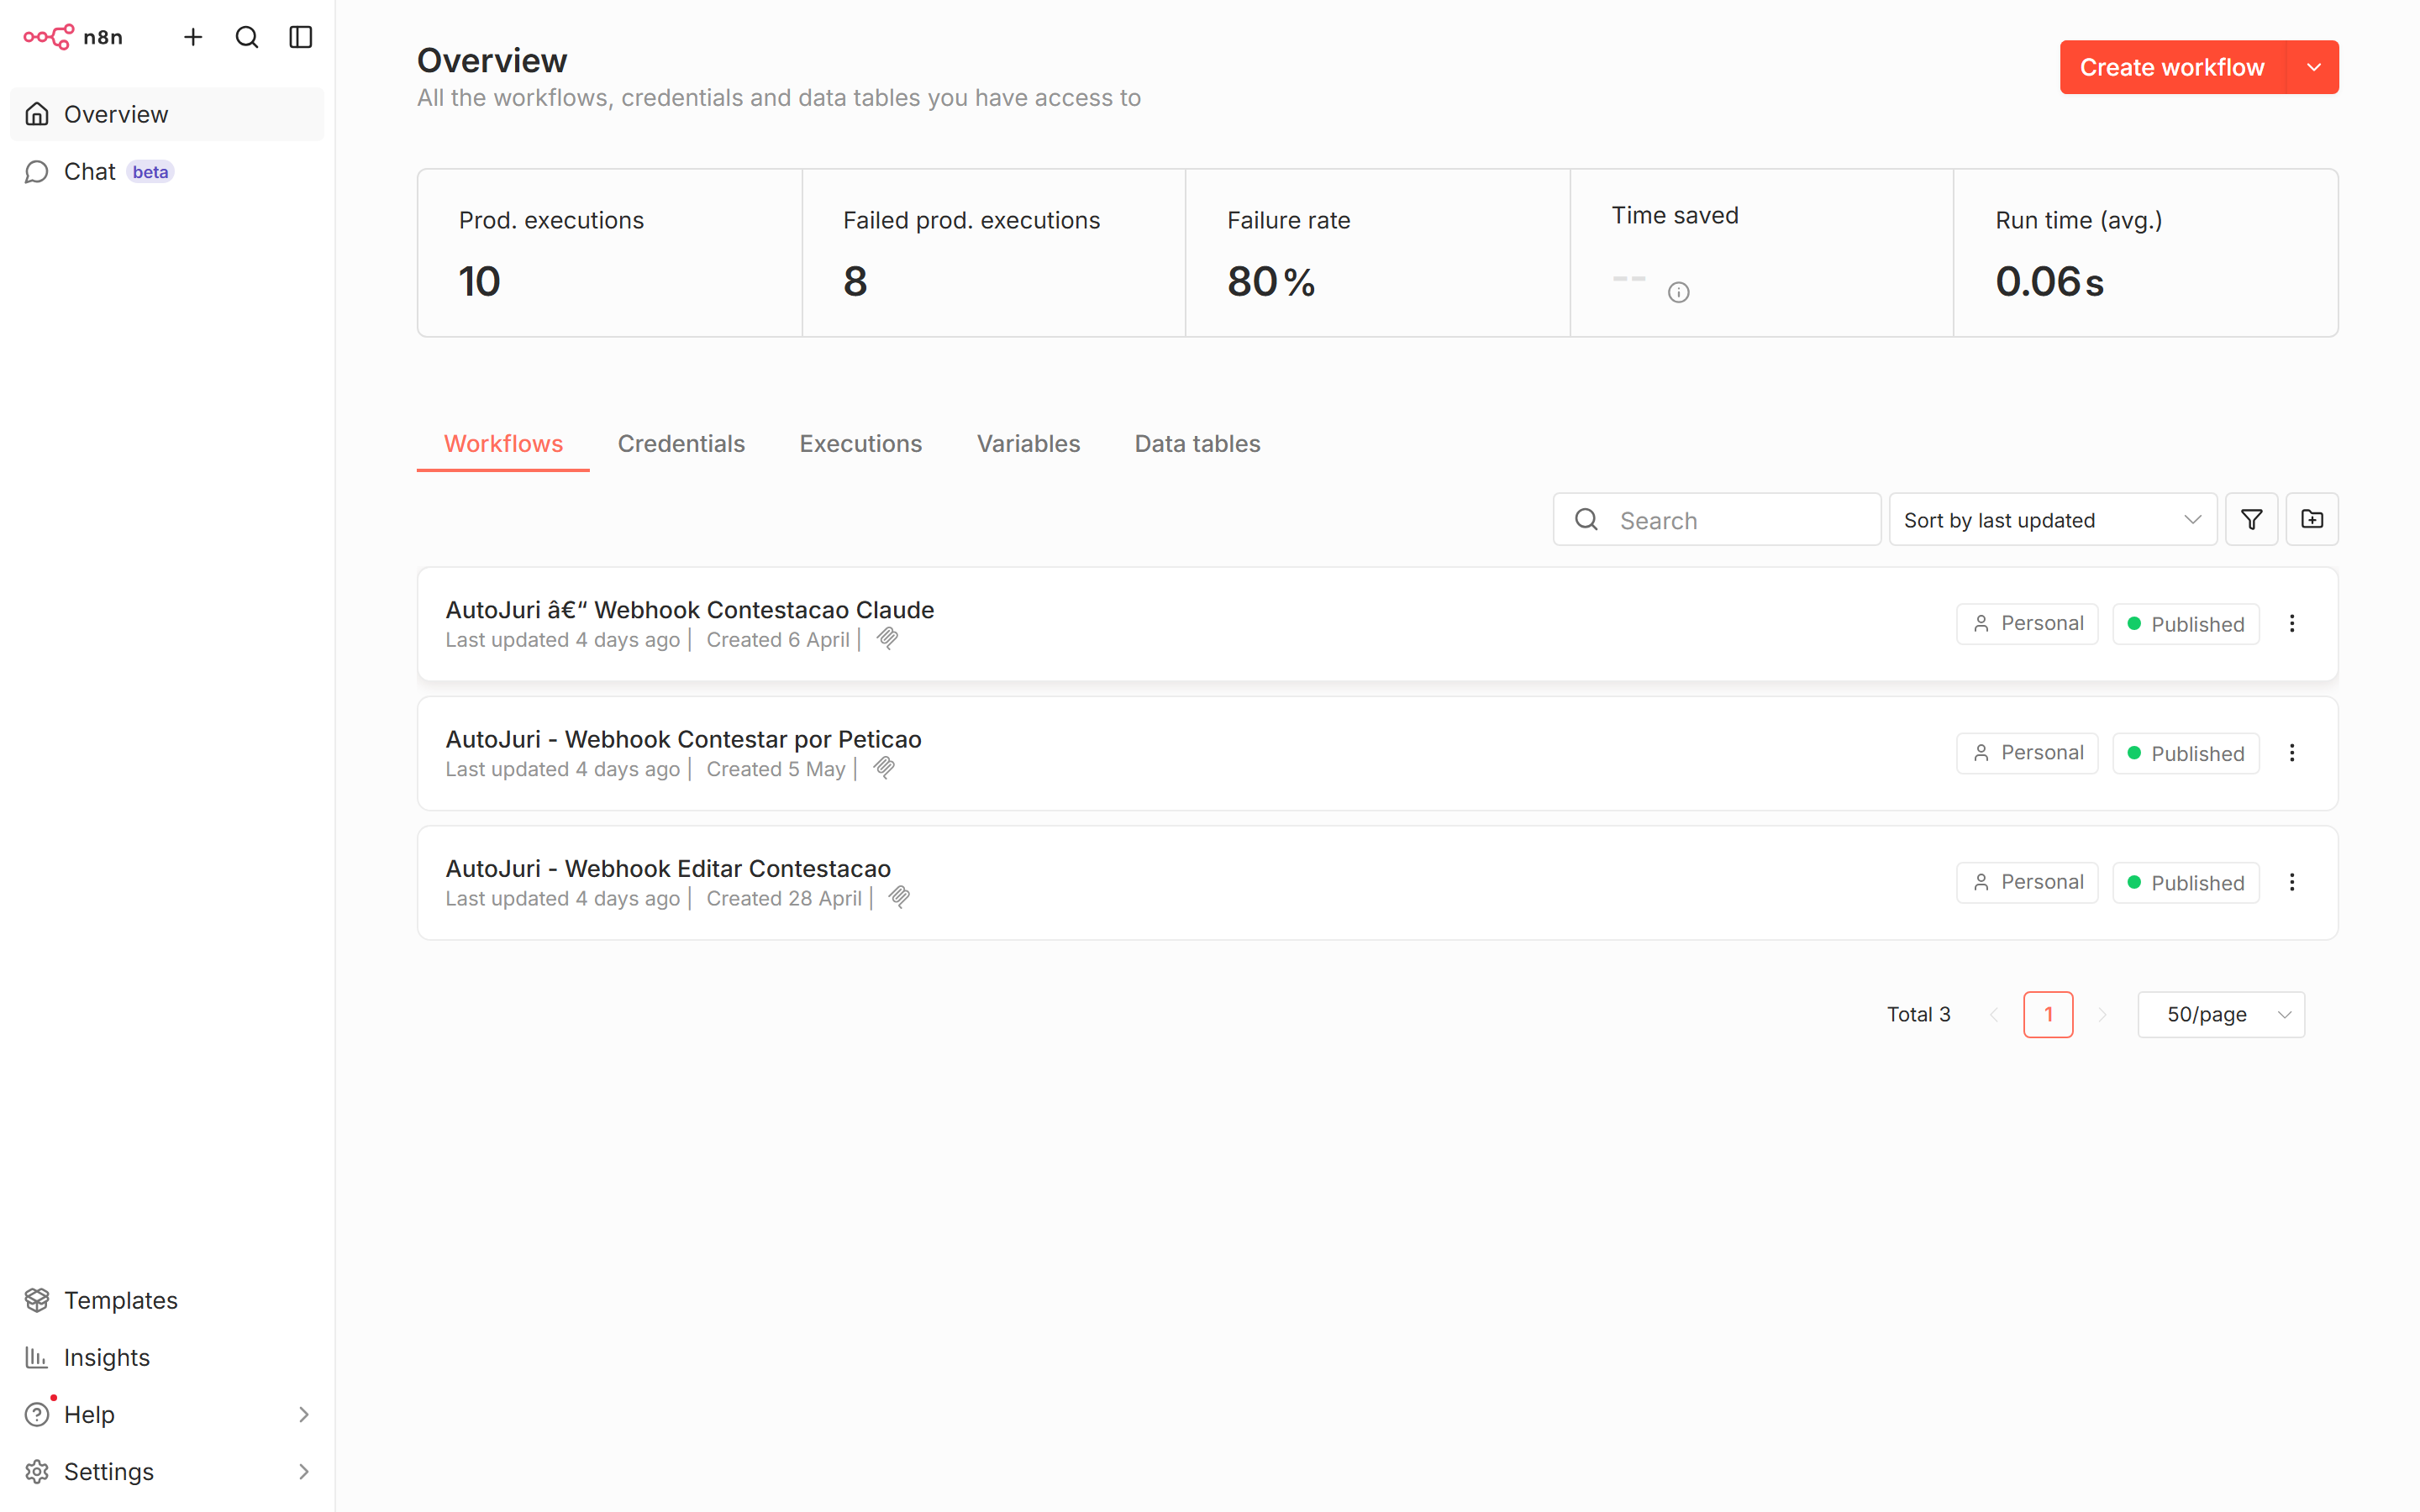
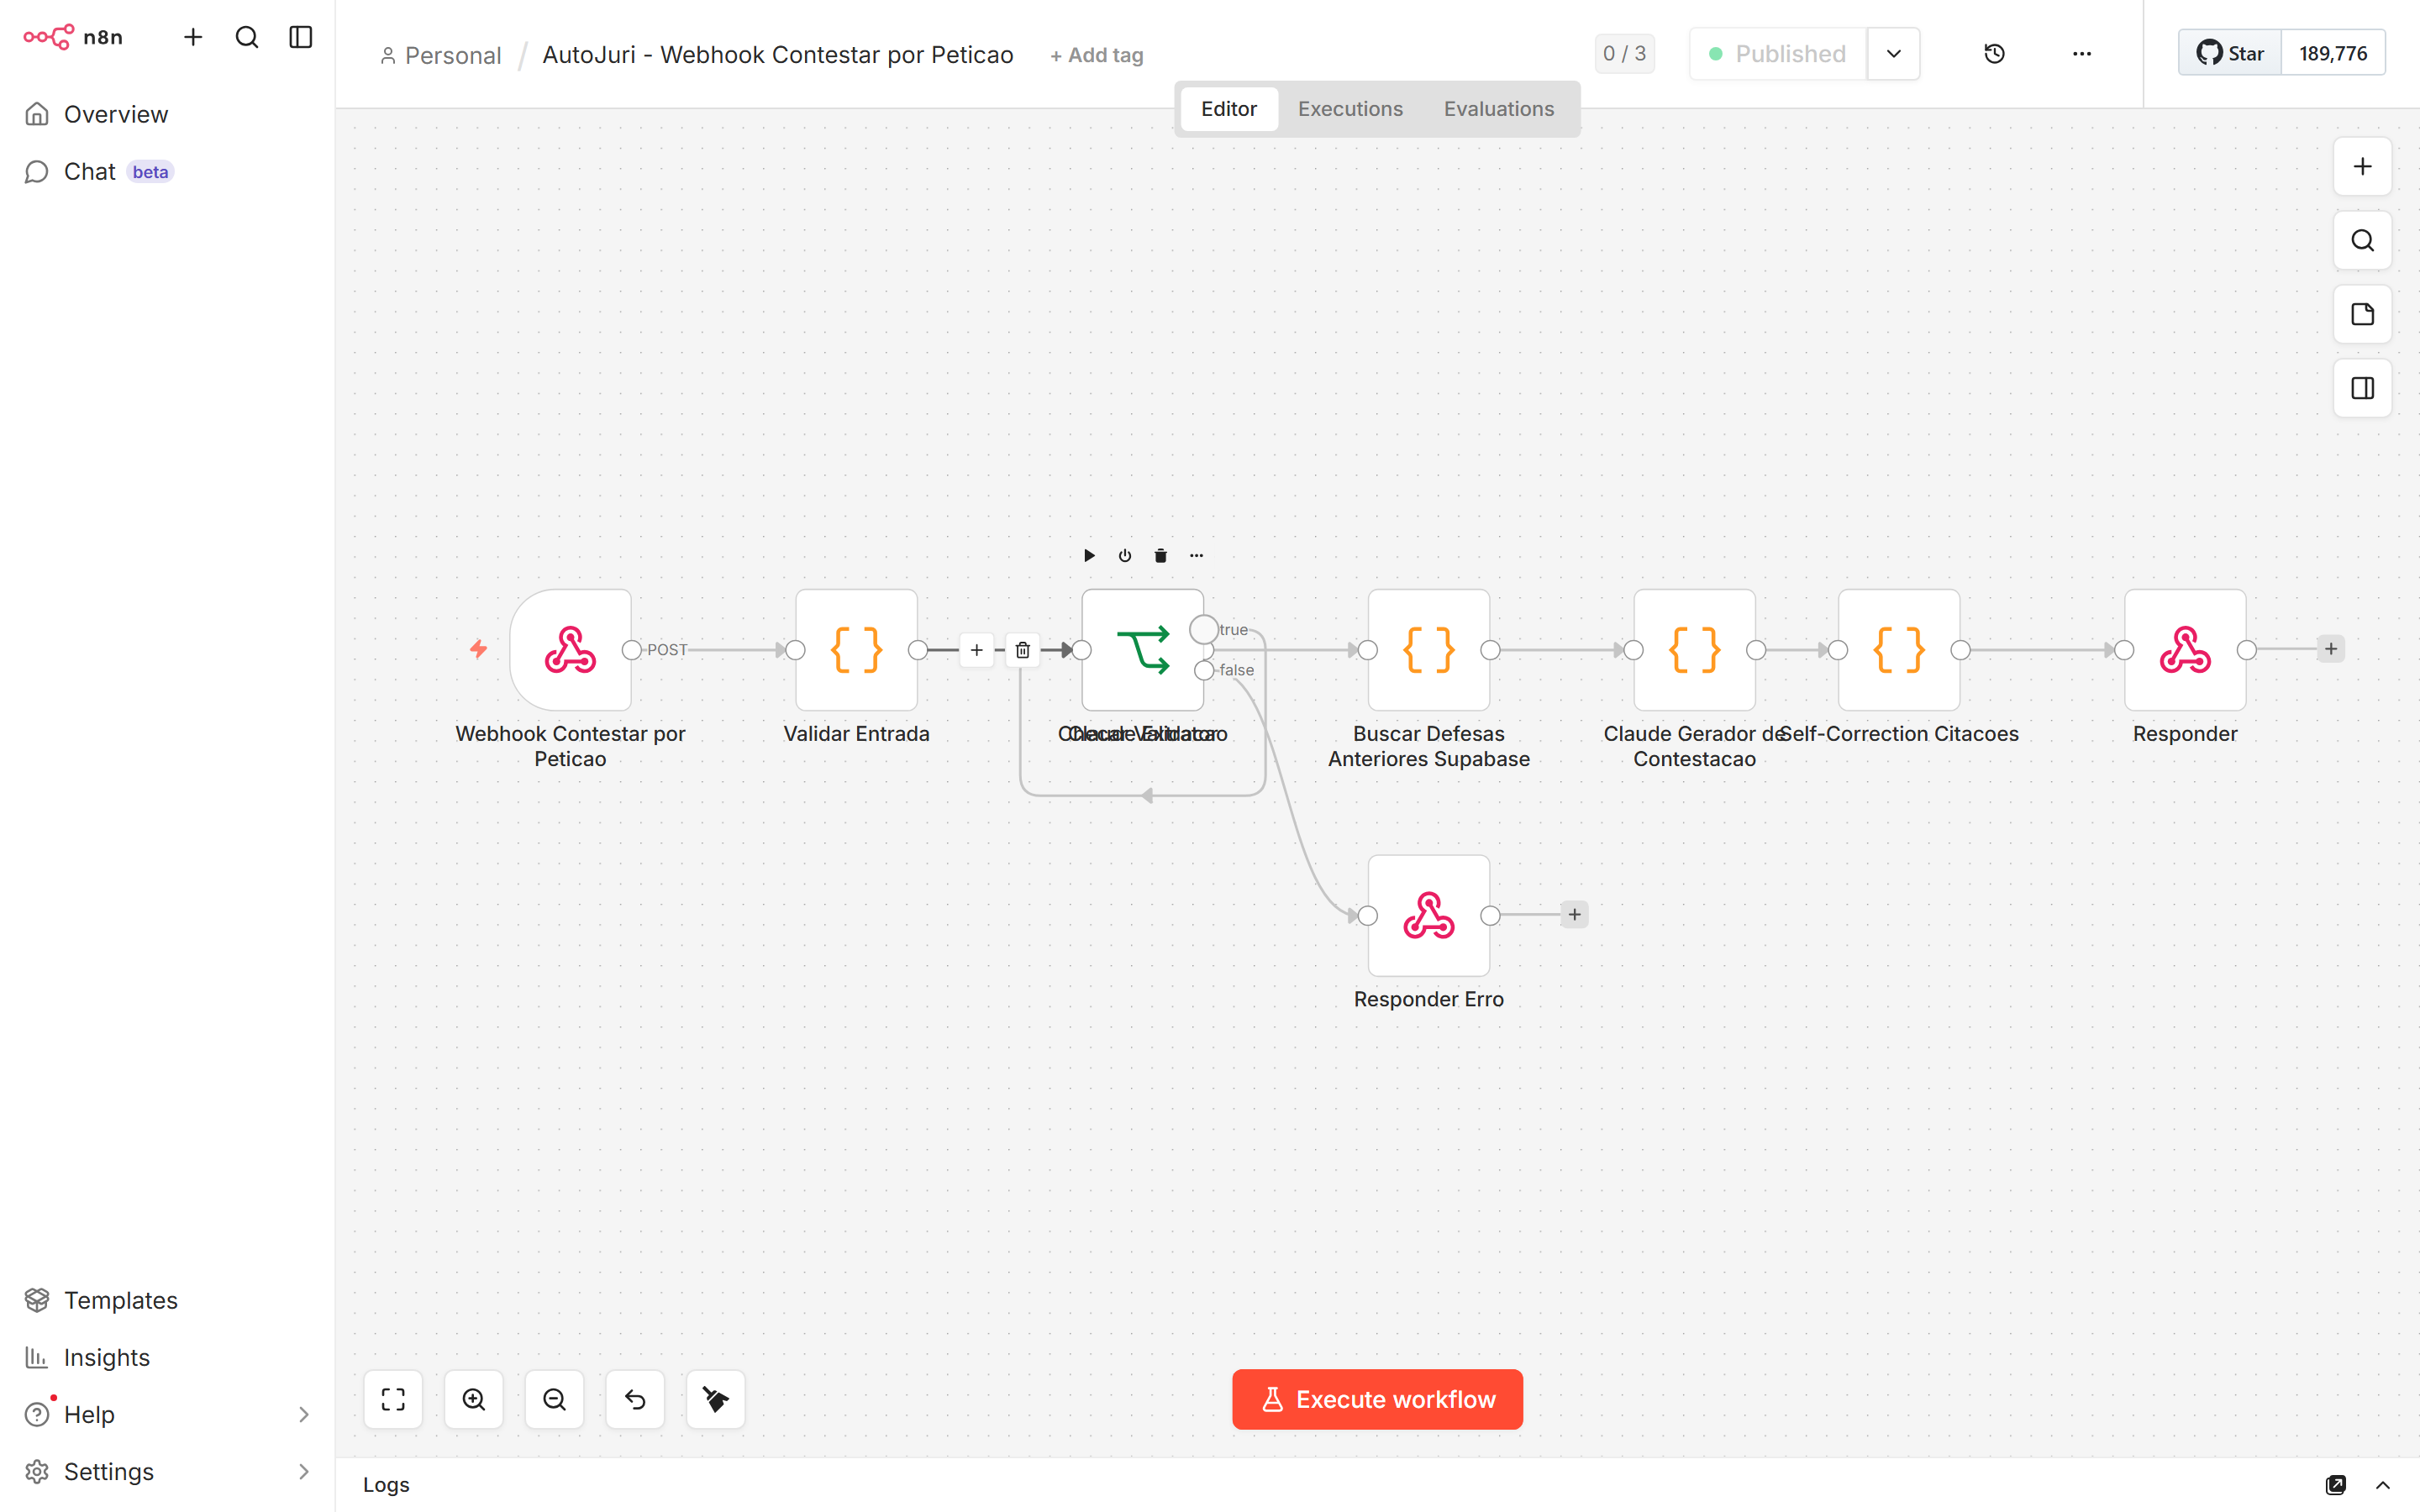
docs(entrega): identifica 3 alunos + captura canvas do workflow n8n
- ENTREGA_FINAL.md/.pdf: troca cabecalho de "Aluno: GuilhermeADS13" para
  "Alunos: Guilherme Maciel · Paulo Neto · Julio Cezar" (equipe completa
  do Projeto Integrador). HeaderBanner do PDF e metadata PDF tambem.

- capturar_screenshots.mjs: o screenshot 06 agora abre o workflow
  WF_AUTOJURI_CONTESTAR_POR_PETICAO direto (URL /workflow/{id}) e
  detecta o canvas via seletor svg.jtk-connector / [data-test-id='canvas'].
  Mostra as conexoes/lacos entre os nodes (Webhook → Code → IF → ...),
  que e o que demonstra visualmente a orquestracao n8n. Fallback para
  primeiro card da lista se URL direta falhar.

PDF regerado: 11 paginas, ~4.6 MB.

diff --git a/docs/gerar_pdf_entrega_final.py b/docs/gerar_pdf_entrega_final.py
@@ -278,8 +278,8 @@ story = []
 uw = W - 5*cm  # largura util (descontadas margens 2.5 cm cada lado)
 
 # ── Capa ────────────────────────────────────────────────────────────────────
-story.append(HeaderBanner(uw, 3.3*cm,
-    "AutoJuri / JurisFlow  •  Aluno: GuilhermeADS13  •  Data: 28/05/2026"))
+story.append(HeaderBanner(uw, 3.5*cm,
+    "AutoJuri / JurisFlow  •  Alunos: Guilherme Maciel · Paulo Neto · Julio Cezar  •  28/05/2026"))
 story.append(Spacer(1, 0.30*cm))
 
 story.append(Paragraph(
@@ -684,7 +684,7 @@ doc = SimpleDocTemplate(
     leftMargin=2.5*cm, rightMargin=2.5*cm,
     topMargin=1.8*cm,  bottomMargin=1.1*cm,
     title="Projeto Integrador — Entrega Final — AutoJuri/JurisFlow",
-    author="GuilhermeADS13",
+    author="Guilherme Maciel, Paulo Neto, Julio Cezar",
     subject="Entrega final do Projeto Integrador 2026",
 )
 doc.build(story, onFirstPage=page_bg, onLaterPages=page_bg)

diff --git a/docs/ENTREGA_FINAL.md b/docs/ENTREGA_FINAL.md
@@ -1,6 +1,6 @@
 # Projeto Integrador — Entrega Final
 
-**Aluno:** Guilherme A. D. S. (GuilhermeADS13)
+**Alunos:** Guilherme Maciel · Paulo Neto · Julio Cezar
 **Projeto:** AutoJuri / JurisFlow — Sistema de automação de contestações jurídicas com IA
 **Repositório:** https://github.com/GuilhermeADS13/API-JURISFLOW-CONTESTA-O
 **Data:** 28 de maio de 2026